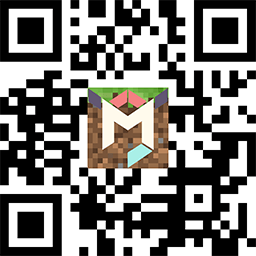
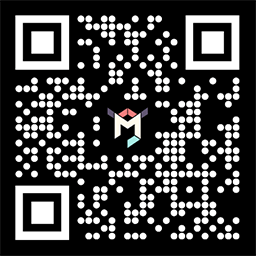
更新域名

diff --git a/index.html b/index.html
@@ -440,8 +440,8 @@
             </div>
             <div id="share-window-btn" class="share-component"
             data-initialized="true"
-            data-url="https://mjyymc.fun"
-            data-source="https://mjyymc.fun"
+            data-url="https://mjyy.top"
+            data-source="https://mjyy.top"
             data-title="谧静幽原-我的世界"
             data-image="https://s21.ax1x.com/2024/12/28/pAxP0P0.png"
             data-description="想玩我的世界多人生存，就来谧静幽原！"

diff --git a/js/index/share.js b/js/index/share.js
@@ -6,7 +6,7 @@ function shareWindowInfoCopyBtn_Click(){
 function OpenSharePage(){
     {
         document.getElementById("share-window-info-qrcodeImg").src="img/mjyy-qrcode.png";//动态加载，避免延长加载时间
-        document.getElementById("share-window-info-textBox").value="https://mjyymc.fun";
+        document.getElementById("share-window-info-textBox").value="https://mjyy.top";
     }
 
     $("#share-page").fadeIn();
